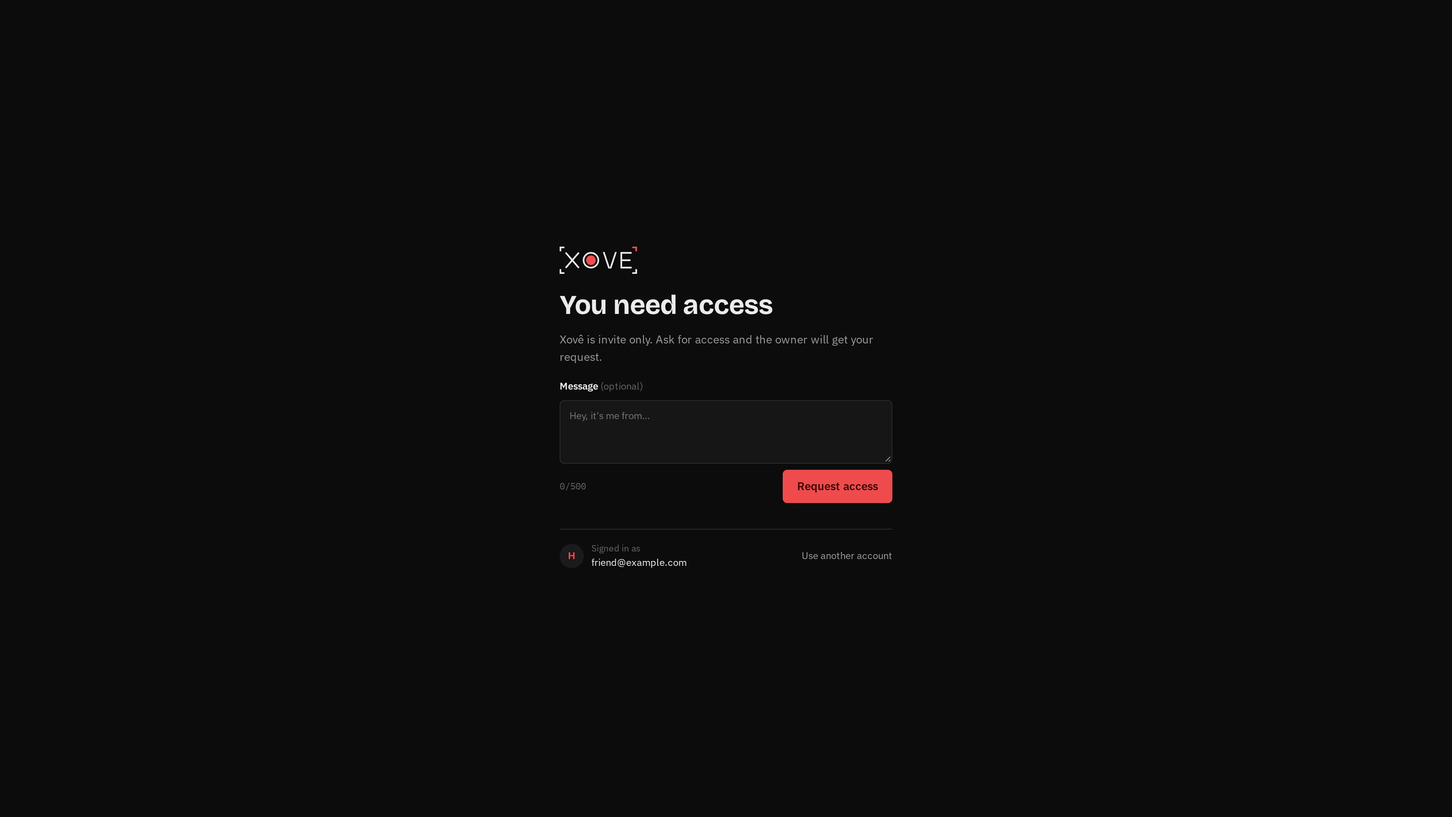
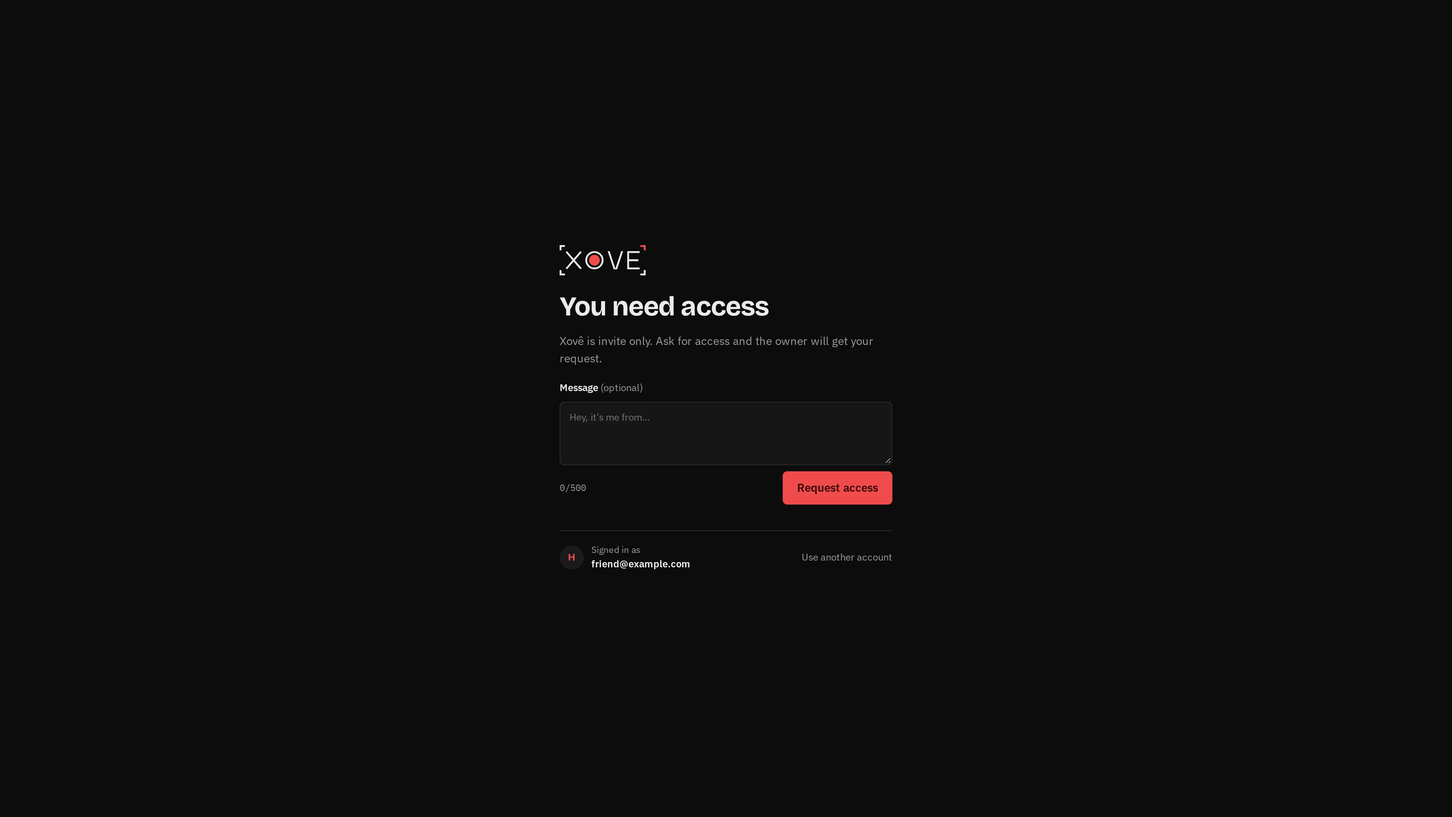
docs(web): the pages outside the room, their rules and pictures (0194-pages-outside-the-room)

diff --git a/docs/architecture.md b/docs/architecture.md
@@ -19,7 +19,9 @@ Everything is in `app/src`:
 
 | Folder | Owns |
 | --- | --- |
-| `pages/` | One component per route: `HomePage`, `RequestAccessPage`, `AdminPage`, until they move in (#194); the room's page is in the room feature (`room/room-page/`) |
+| `features/home/` | The sign-in page (`components/home-page/`: the pitch, a sign-in's error in words from `utils/sign-in-error.util.ts`, Continue with Google as a link on `Button`'s white look), Google's mark (`components/home-google-mark/`, its paths and colours in its `constants/`) |
+| `features/request-access/` | Asking to join (`components/request-access-page/`: the mark, the form or the wait, who's signed in on `PersonRow`; the 20 s check for an approval, `use-approval-check`), the form (`request-access-form/`, its sending in `use-access-request`, a refusal in `ErrorNotice`) and the wait (`request-access-waiting/`, "Waiting for approval" a soft `LabelPill` in an `<output>`) |
+| `features/admin/` | Admin, its own data: the store (`stores/admin-store/`: both lists, one action at a time, its error kept, both reloaded after each; read through `use-admin`, a store per visit), the page on the Page shell's wide frame with its bar above the main region, the bar (`admin-header/`), the requests (`admin-requests/`, each `admin-request-card/`), the members (`admin-members/`, each `admin-member-row/`, Remove asked first in `admin-remove-confirm/`) |
 | `features/room/stores/room-store/` | The room's store, a unit: the room as data (`room.model.ts`: people by their id, streams, who watches whom, arrivals, the seat, the activity, my streams' steps, changed by pure functions), what the room shows (`room.selectors.ts`), and `RoomStore` (`room.store.ts`): the one place the seat, the streams and entering again are polled, the video room joined, and the room's actions sent; its hooks `use-room-store` (the store, the room, the video) and `use-room-seat` (the seat and its actions), and the helpers only it uses in `utils/` (the streams, the API's answer, the activity's events, a sharer's feed, keeping the same record, waiting for a seat) |
 | `features/room/stores/room-session/` | The room once I'm in, shared with its areas through a context (`RoomSessionProvider`, read with `useRoomSession`): one hook gathers the room from the store (`use-session-core`: what the room shows, `use-room-view`; what I send, `use-my-sending` with my streams, their settings through a queue, the camera's preview and switch, changing the window; keeping my streams and the API in step, `use-stream-sync`; my voice, `use-my-voice`; the activity, `use-activity-feed`; the camera remembered), and one shapes each area's part: the stage's (`use-session-stage`: who's on it, the watch report, who watches, my buttons' controls), the header's (`use-session-header`: the activity, the people, my account), the settings panel's (`use-session-settings`, its open state from `use-settings-open`); the ambilight's settings, remembered (`use-ambilight`). The areas read their part; the pieces inside them keep their props |
 | `features/room/hooks/` | The room's hooks several pieces share: who's big (`use-stage`), what I hear and what's downloaded (`use-hearing`); whether the keyboard was used last (`use-keyboard-last`); the time now, ticking (`use-now`); a track played in a video or audio element at this browser's volume (`use-played-track`), the TV turning on (`use-turn-on`), the settings' anchor the controls hand the stage (`use-settings-anchor`), Go live's width (`use-go-live-width`); a sound's slider opened by a rest of the mouse and closed on leaving (`use-hold-or-rest`), the previews' rows on their layer (`use-preview-tray`), what's fullscreen (`use-fullscreen-element`) |
@@ -30,9 +32,9 @@ Everything is in `app/src`:
 | `features/room/components/` | The room's pieces, in area folders (`room/`, `header/`, `queue/`, `stage/`, `stage-controls/`, `stage-info/`), the area in each name, each with its test and stories: the page (`room/room-page/`: my seat or the room laid out, the devices listed from the waiting room on, the sound unlocked by the first click or key, when the room can show), the room's error line (`room/room-error/`: under the stage, or over the player in fullscreen), the queue (`queue/queue-waiting-room/`, and the seat offer `queue/queue-seat-offer/` on the browser's own modal dialog), the footer (`room/room-footer/`), the header (`header/header/`, placing its own pieces from the session), the activity pill (`header/header-activity-pill/`, its moving line `header/header-activity-ticker/`) and list (`header/header-activity-list/`), who's here (`header/header-people-button/`, the seats `header/header-seats/`), my picture and my menu (`header/header-my-picture-button/`, `header/header-my-menu/`) |
 | `shared/stores/floating-store/` | What floats, one thing on screen at a time: `useFloating` tells the store a piece is open and its kind (opened by a click or the keyboard, opened on a mouse rest, a tooltip). The store's rules decide what closes, what's inside another stays, and its one listener takes a press outside and Escape, which returns focus to the button. Each piece holds its own open state; the settings panel stays pinned and doesn't join |
 | `shared/components/` (floating blocks) | On that store: `dropdown/` (one piece of glass, its sections on it), `picker/` with `picker-list/` (a list that floats over its panel, masking what's behind it in the nearest `[data-list-host]`; a menu of `menuitemradio` options), `drop-up/` and `drop-up-row/` (a labelled `fieldset`; its gestures can redirect to an open panel), `tooltip/` (the app's only tooltip, on its own layer, describing its control for screen readers; it follows its control on every frame while shown, sits `beside` a list's option, and with `cutOnly` shows only for a cut name). A redirected drop-up (the settings open) follows every rest, closing what's opened first (`floatingStore.closeOpened`). `picker/` and `drop-up/` can be told to be open (`open`, `onOpenChange`); `cue/` is how a control is pointed at |
-| `shared/components/` (the design system) | One block per purpose (ADR-0094), each with its test and stories: `button/`, `slider/`, `segmented/` (real radios), `toast/` (its state in `shared/stores/toast-store/`, shown with `toastStore.show`), `wordmark/` (the mark, full or icon; its geometry, timeline and favicon in its `utils/`, read by `scripts/brand-icons.mjs` too), `panel/` and `panel-section/` (the one glass, its sections parted by a hairline), `page-shell/` (home, form, waiting, message), `field/`, `stat-pill/` and `count-chip/` (counters by space), `control-label/` and `section-heading/` (labels by space), `menu-row/` (a menu's action: a link or a button; its menu sets its role), `icon-button/` (the round button in two sizes, L 48 for my own buttons and M 34 for every other, and the header's and close's purposes), `action-pill/` (a button with words: XS 26, S 30, M 34 or L 44, glass, red, soft or dark, the dark one "on" while pressed), `live-dot/` (the live dot, S or M, with its glow), `label-pill/` (a label over a picture, 22 px, a face first or words alone), `tabs/` (the tabs: the sliding marker, the live dot, every pane as tall as the tallest; its keys, focus and a touch's reason in its hooks); `slider/` has a threshold variant (a line knob, a level in its track), `switch/` carries the settings row; the one slim scrollbar is `data-scroll="slim"` in `shared/styles/global.css` |
+| `shared/components/` (the design system) | One block per purpose (ADR-0094), each with its test and stories: `button/` (primary, danger, ghost, quiet and white; a link with its look when it has somewhere to go), `slider/`, `segmented/` (real radios), `toast/` (its state in `shared/stores/toast-store/`, shown with `toastStore.show`), `wordmark/` (the mark, full or icon; its geometry, timeline and favicon in its `utils/`, read by `scripts/brand-icons.mjs` too), `panel/` and `panel-section/` (the one glass, its sections parted by a hairline), `page-shell/` (home, form, waiting, message, and wide, a page from the top with its bar above the main region), `field/`, `stat-pill/` and `count-chip/` (counters by space), `control-label/` and `section-heading/` (labels by space), `menu-row/` (a menu's action: a link or a button; its menu sets its role), `icon-button/` (the round button in two sizes, L 48 for my own buttons and M 34 for every other, and the header's and close's purposes), `action-pill/` (a button with words: XS 26, S 30, M 34 or L 44, glass, red, soft or dark, the dark one "on" while pressed), `live-dot/` (the live dot, S or M, with its glow, beating when something waits), `label-pill/` (a label: glass over a picture, a soft red status, a solid red role; S 22 px or M on a page), `person-row/` (a person: a face, the name, a quiet line, an end), `page-text/` (a page's lead under its heading, a quiet note), `tabs/` (the tabs: the sliding marker, the live dot, every pane as tall as the tallest; its keys, focus and a touch's reason in its hooks); `slider/` has a threshold variant (a line knob, a level in its track), `switch/` carries the settings row; the one slim scrollbar is `data-scroll="slim"` in `shared/styles/global.css` |
 | `routes/` | Which page opens at which address, and who may open it: the root (`root/`), the route table (`app-routes/`), the guard (`route-guard/`, its rule in its `utils/route-access.util.ts`) |
-| `services/xove-api-service/` | The HTTP client (`xove-api.service.ts`): one function per endpoint, the call itself and its errors as `ApiError`; the CSRF token and the headers in `utils/`, the API's types in `types/`, its messages in `constants/` |
+| `services/xove-api-service/` | The HTTP client (`xove-api.service.ts`): one function per endpoint, the call itself and its errors as `ApiError`; the CSRF token, the headers and a failed call's words (`apiErrorMessage`: the API's, or the place's own) in `utils/`, the API's types in `types/`, its messages in `constants/` |
 | `shared/stores/auth-store/` | Who is signed in (`AuthProvider` in `auth.store.tsx`, which asks `GET /api/me` once and on demand; `useAuth` in its `hooks/`) |
 | `services/app-config-service/` | The settings the server gives the app before it shows (`/config.json`, read once in `main.tsx`): today the stream places (1 to 6); a missing or broken file gives nothing, and the room falls back on the API's answer |
 | `services/settings-queue-service/` | My stream's settings on their way to the API: changes one after another, a refused one put back |
@@ -40,31 +42,35 @@ Everything is in `app/src`:
 | `services/livekit-service/` | The video server, the only place that uses `livekit-client`: the adapter (`livekit.adapter.ts`: connects with the access it's given, keeps the room's state per person, takes commands), what's captured, sent, changed and heard (`capture`, `send`, `screen-change`, `screen-sound`, `voice` services), what someone sends read into plain data (`remote-media.adapter.ts`), who's speaking measured from what I hear (`speaking.service.ts` over `voice-activity.adapter.ts`, [Media](media.md#the-voice)), the noise gate's processor (which also says when my voice is sent); its helpers in `utils/` (how streams are sent, the room's state per person, the mic's problems), its types and constants beside them |
 | `services/media-devices-service/` | The browser's devices: the screen picker, the cameras and mics and the mic's meter as services (they ask the browser); a phone or a tablet (`utils/is-handheld.util.ts`), the picker's request and the noise gate's maths as helpers; the stream presets in `constants/` |
 | `features/phone-notice/` | What phones and tablets see instead of the app ([below](#phones-and-tablets)): its page and art in `components/` |
-| `shared/` | What the whole app uses: the auth store, the time constants, the building blocks in `components/` (`icon`, `icon-button`, `face`, `switch`, `live-badge`, `headline`, `error-notice`), the icons' drawings, my mic's state and how long ago (`constants/`, `types/`, `utils/`), the design tokens (`styles/tokens.css`, every value the CSS uses) and the page's base rules (`styles/global.css`) |
+| `shared/` | What the whole app uses: the auth store, the time constants, the building blocks in `components/` (`icon`, `icon-button`, `face`, `switch`, `live-badge`, `headline`, `error-notice`), the icons' drawings, my mic's state, how long ago, a first name, the mark's two heights and where the page draws the app (`constants/`, `types/`, `utils/`), the design tokens (`styles/tokens.css`, every value the CSS uses) and the page's base rules (`styles/global.css`) |
 | `testing/` | The test helpers: a fake API, a fake LiveKit, and rendering the app at a URL ([Testing](testing.md)); only tests import it |
 
-At the top, `main.tsx` starts the app, `routes/root/root.component.tsx` chooses between the app and the phone notice, and `routes/app-routes/app-routes.component.tsx` holds the routes.
+At the top, `main.tsx` starts the app in the page's `#root` (found by `shared/utils/root-element.util.ts`, a clear error without one), `routes/root/root.component.tsx` chooses between the app and the phone notice, and `routes/app-routes/app-routes.component.tsx` holds the routes.
 
 ```mermaid
 flowchart TD
-  P[pages] --> C[components]
-  P --> H[hooks]
-  P --> A[services/xove-api-service]
-  C --> H
-  H --> A
-  H --> LK[services/livekit-service]
-  H --> M[media]
-  C --> M
-  H --> PR[services/preferences-service]
-  C --> PR
-  P --> AU[shared/stores/auth-store]
-  AU --> A
-  R[routes/root/root.component.tsx] --> D[services/media-devices-service]
+  M[main.tsx] --> R[routes/root]
   R --> N[features/phone-notice]
-  R --> APP[routes/app-routes/app-routes.component.tsx]
+  R --> APP[routes/app-routes]
   APP --> G[routes/route-guard]
-  G --> AU
-  APP --> P
+  APP --> HO[features/home]
+  APP --> RA[features/request-access]
+  APP --> AD[features/admin]
+  APP --> RO[features/room]
+  HO --> SH[shared]
+  RA --> SH
+  AD --> SH
+  RO --> SH
+  N --> SH
+  G --> AU[shared/stores/auth-store]
+  RA --> A[services/xove-api-service]
+  AD --> A
+  RO --> A
+  RO --> LK[services/livekit-service]
+  RO --> D[services/media-devices-service]
+  RO --> PR[services/preferences-service]
+  AU --> A
+  R --> D
 ```
 
 Pages put the room together; components draw it; hooks own the state and talk to the API and LiveKit (the simpler pages call the API directly); the room's rules (hearing, the stage pick, the watch report) are plain functions in `features/room/utils/`, and the settings queue is a service (`services/settings-queue-service/`). Each component has its own CSS module, using the tokens in `shared/styles/tokens.css`.
@@ -175,7 +181,7 @@ The room has one layout, theater mode, that follows the window's size ([how it l
 
 ## Where the code is going
 
-The modules above are the app as it is today. It's being reorganised, with no change of behaviour, into the structure below. The new folders are in place (`routes/`, `features/`, `shared/`, `services/`, `testing/`); the old ones (`pages/`, `components/`, `hooks/`, `media/`, `brand/`) move in step by step, and this page's tables follow. Every component, today's and the next version's, with its pictures and its future folder: [Components](components/README.md).
+The modules above are the app as it is today. It's being reorganised, with no change of behaviour, into the structure below. The new folders are in place (`routes/`, `features/`, `shared/`, `services/`, `testing/`), and every old one has moved in; what's left is the sweep of the last known findings. Every component, today's and the next version's, with its pictures and its future folder: [Components](components/README.md).
 
 ### The structure
 
@@ -196,7 +202,7 @@ app/src/
 - **A unit is a folder:** a component, a store, a service or an adapter, with its code, its test beside it (`facecam.component.test.tsx`), its CSS module if it's a component, a component's stories (`facecam.component.stories.tsx`: its states in Storybook, [Testing](testing.md#storybook)), and `index.ts`: the only door other code goes through.
 - **Its parts sit inside it,** as files in folders by kind: `hooks/`, `utils/` (helpers that format, build or map, each with its test beside it), `constants/`, `types/`, `enums/`, only when it has some. A part used by several units of a feature sits in the feature's own part folders; one used by several features in `shared/`'s; a service's parts in the service. A working file holds no type (its props and inputs too), named constant or helper; a function that makes calls (the network, storage, LiveKit) belongs to a service.
 - **Nothing nested:** no unit inside a unit, no folder inside a part folder. A feature's `components/` holds component folders, or area folders (one level) holding only component folders, never both; each name keeps its area (`stage/stage-facecam/`), and areas of one feature may use each other's components. A path is at most 7 levels under `src/`. A feature is split by its data, not its size: about 25 components in one area is a signal to look again.
-- **Names:** kebab-case with the type as a suffix: `.component.tsx`, `.page.tsx`, `.hook.ts`, `.util.ts`, `.service.ts`, `.adapter.ts`, `.store.ts`, `.model.ts`, `.selectors.ts`, `.constants.ts`, `.enum.ts`, `.types.ts`; tests `.test.ts(x)`.
+- **Names:** kebab-case with the type as a suffix: `.component.tsx`, `.page.tsx`, `.hook.ts`, `.util.ts`, `.service.ts`, `.adapter.ts`, `.store.ts`, `.model.ts`, `.selectors.ts`, `.constants.ts`, `.enum.ts`, `.types.ts`; tests `.test.ts(x)`. The entry, `main.tsx`, and its test, `main.test.tsx`, keep their own names.
 - **Short names:** `@routes/…`, `@features/…`, `@shared/…`, `@services/…` and `@testing/…` (in `tsconfig.app.json`'s `paths` and Vite's `resolve.alias`), never long relative paths into another folder.
 - **Imports go down:** `routes` → `features` → `shared` → `services`. No feature uses another; only tests use `testing/`. The lint rule enforces the direction, and the code check the rest (below), and no file imports another component's CSS.
 

diff --git a/docs/design.md b/docs/design.md
@@ -44,7 +44,8 @@ The pictures are shot from the real app (`design-sheet.mjs`, see [Keeping this p
 - **The symbol:** the record O alone, inside the same four corners. It's the app icon and the favicon.
 - **Construction** (`app/src/shared/components/wordmark/utils/mark.util.ts`, the only place the geometry lives, every number named in its `constants/`): one grid with a cap height of 100 and a stroke of 10. Letter widths X 88, O 100, V 90, E 68, gaps 20. The viewfinder sits 28 from the letters, with arms of 24 (26 in the symbol). The dot's radius is 29.4 in an O 100 across. The X ends square, the V's tips are cut flat at the cap height.
 - **Colours:** white strokes (`--text`, `#ebebec`), the red dot and corner (`--accent`, `#ef4b4b`), on the soft black ground. Never recoloured, outlined, stretched or put on a busy picture.
-- **Drawn, not typed:** the `Wordmark` block (inline SVG, named "Xovê" for screen readers), `variant="full"` for the wordmark and `"icon"` for the symbol. It's a picture, not a keyboard stop. In the header it's about 110 px wide.
+- **Drawn, not typed:** the `Wordmark` block (inline SVG, named "Xovê" for screen readers), `variant="full"` for the wordmark and `"icon"` for the symbol. It's a picture, not a keyboard stop.
+- **Two sizes** (`shared/constants/mark.constants.ts`): **40 px** above a page's heading (sign-in, request access) and **32 px** in a header bar (the room's, admin's; about 110 px wide). The phone notice's symbol is 36 px, part of its drawing.
 - **The hover animation** (the Wordmark's `mark-timeline.util.ts` and `useMarkAnimation`): pointing at the wordmark plays it once, in about 3 seconds. The left corners stay and the word slides under them until the X is gone, while the right corners close in on the O; the corners settle into the symbol; the dot double-blinks like a surprised eye; everything plays back. A new hover doesn't restart it, and it never plays with reduced motion.
 - **Three optical sizes of the symbol** (`iconMark("large" | "small" | "tiny")`): **large** (64 px and up) is slim, about 70% of its square; **small** (32 px) and **tiny** (16 px) have heavier strokes and fill more of the square, tiny edge to edge. The outer edges match in all three.
 
@@ -308,6 +309,7 @@ The colours above, the type scale and the fonts are tokens too. The rest:
 - **An action pill** (`ActionPill`) is a button with words, round at both ends: **M 34** over a stream (Go live) or **L 44** where it's the screen's main choice (the empty stage's Screen and Camera). Three fills: **glass** (the round buttons' base), **red** (the first way, `--accent`) and **soft** (a second way, a light translucent fill). An icon or the [live dot](#avatars-and-live) comes first. Unavailable: 45%, saying why, like a round button.
 - **A small button with words is the dark pill** (a rule for the whole app): `ActionPill`'s **dark** fill, the chosen segment's pill (`--sel-bg`, its shadow, lighter when pointed at), white semibold words, one size per place: **S 30** in the drop-up's glass row (Change over the video) and **XS 26** in a panel (Change in the settings' window row, Test beside the mic's level). **On** (pressed, Test while it plays) it's white with dark words. Never a round button with words. (Change: [the settings' Screen tab](#the-settings-panel); Test: [the Voice tab](#the-settings-panel).)
 - **A label pill** (`LabelPill`) names what a picture shows or says something about it (a preview's "Rafa · screen", the camera preview's "Only you see this"): **22 px** glass, 500 weight, a face or an icon first when it names someone, words alone otherwise. It isn't a button: the picture under it is. **Any label over a picture is one.**
+- **A status or a role is a label pill too**, in red: **soft** (the accent's tint, red semibold words) for a status on a page, at the page's size (**M**): "Waiting for approval", its [live dot](#avatars-and-live) beating first; **solid** (the accent, deep-red words) for a role in a row (**S**): "Admin". Never a pill of its own.
 - The counters' Stat pill stays its own block ([Counters by space](#counters-by-space)): it counts, it doesn't act or name.
 
 ### What I hear, and Go live
@@ -397,8 +399,10 @@ The settings for what you send, from the cog on my own stream or, with nobody li
 | Primary | Red fill, deep-red text; lighter red (`#f36a6a`) on hover | The one main action on a page ("Get Xovê", "Request access") |
 | Ghost | Transparent, muted text, a `--line` border; raised surface on hover | Secondary actions |
 | Danger | Transparent, red text and a red border at 55% | Removing a member, stopping |
+| Quiet | Muted words alone, 13 px, no box and no press; white and underlined when pointed at | A quiet way out or back ("Use another account", "Back to the room") |
+| White | White fill, dark words, a soft red ring (the accent at 14%, 3 px) when pointed at | Google's sign-in only, its "G" in Google's own colours: the one place outside the tokens |
 
-Two sizes: **md** (10 × 18 px padding, 15 px text) and **sm** (6 × 12 px, 13 px). Weight 600, `--radius-1-5`, 45% opacity when disabled.
+Two sizes: **md** (10 × 18 px padding, 15 px text) and **sm** (6 × 12 px, 13 px). Weight 600, `--radius-1-5`, 45% opacity when disabled. **A button that goes somewhere is a link with its look** (`to` in the app, `href` out of it): screen readers hear a link, the eye sees the button.
 
 ### Sliders
 
@@ -492,7 +496,8 @@ A number that changes takes the look of **its space**, and each space's look is 
 
 ![My face lit while my voice is sent, beside my face live and silent](images/design/my-face-talking.png)
 - **LIVE badge** (the `LiveBadge` block): "LIVE" in mono with a deep-red dot on red. Beside who's on the stage it's a small tag whose dot pulses; over my preview in the settings, a pill with a still dot.
-- **The live dot** (the `LiveDot` block): one red dot with a soft red glow (`--accent-70`, 8 px), still, in two sizes: **M 8 px** first on a pill (Go live) and **S 6 px** on a tab (the settings' tab of what you're sending). Screen readers don't hear it: the words around it say it.
+- **The live dot** (the `LiveDot` block): one red dot with a soft red glow (`--accent-70`, 8 px), in two sizes: **M 8 px** first on a pill (Go live) and **S 6 px** on a tab (the settings' tab of what you're sending). Still for something live; **beating** for something you wait for ("Waiting for approval"): down to 30% and back every 1.6 s, as LIVE's dot, still with reduced motion. Screen readers don't hear it: the words around it say it.
+- **A person in a row** (the `PersonRow` block): their face at the place's size, the name (13 px semibold) and a quiet line under it (12 px, muted: an email, a role, what they're doing), then what ends the row (a time, a button, a badge, icons). My menu, the people list, request access's "Signed in as" (a quiet word above the name) and admin's requests and members. **Every list of people uses it.**
 
 ### On the stage
 
@@ -563,8 +568,14 @@ Xovê is for computers: laptops and desktops get the app, in one layout (theater
 
 ![The sign-in page on a desktop](images/design/sign-in.png)
 
-Sign-in, request access (and request sent), the room's queue and admin: centred on the page's ground, the wordmark above the heading. Each is in the **Page shell** (`home`, `form`, `waiting`, `message`); the queue's card is the [Panel](#the-panel).
-- **Sign-in:** "Go **LIVE** with your friends." and its line (see [Name and voice](#name-and-voice)), then "Continue with Google" and who can join.
+Sign-in, request access (and request sent), the room's queue and admin, each in the **Page shell** (`home`, `form`, `waiting`, `message`, `wide`); the queue's card is the [Panel](#the-panel). A centred page has the mark (40 px) above its heading, the heading a `Headline`, the line under it a `PageText` lead (muted, the body's size); an error is the `ErrorNotice` box; a quiet note is small and muted.
+- **Sign-in:** "Go **LIVE** with your friends." and its line (see [Name and voice](#name-and-voice)), then "Continue with Google" (the white button, a link) and who can join.
+![Request access](images/design/request-access.png) ![Request sent, waiting for approval](images/design/request-sent.png)
+
+- **Request access:** "You need access" (or "Your request was declined"), its line, the note and Request access; once sent, "Request sent" with "Waiting for approval" in the soft label pill, its dot beating. At the foot, under a hairline, who's signed in (a person row) and "Use another account" (the quiet button).
+![Admin, with someone waiting and an admin among the members](images/design/admin.png)
+
+- **Admin:** the wide frame, from the top: a bar (the mark at 32 px, "admin" in mono, "Back to the room" the quiet link) above the page's main region; who's waiting (each a card: a person row with the time, their note quoted with a red line, Approve and Decline) beside the members (person rows; Remove asks first; an admin says "Admin" in the solid label pill). One column on a narrow window.
 
 ### Phones and tablets: see you on the big screen
 
@@ -573,7 +584,7 @@ Sign-in, request access (and request sent), the room's queue and admin: centred 
 What a phone or a tablet sees, on every page: nothing else of the app, and no call to the server. Centred on the page's ground, top to bottom:
 - **The mark** (36 px).
 - **A computer drawn from the mark:** its four viewfinder corners (the top right one red) round a screen, the red dot on it, a stand under it.
-- **The headline** "See you on the **big screen**." ("big screen" in the accent, as "LIVE" on sign-in).
+- **The headline** "See you on the **BIG SCREEN**." (the shared `Headline`: "big screen" in the accent and in capitals, as "LIVE" on sign-in).
 - **One line, apologising once at its start:** "Sorry, Xovê doesn't work on phones or tablets yet. Open `xove.app` on your laptop or desktop to watch and share with your friends." The address in the mono face.
 - **No button:** a copied link doesn't move anyone to their laptop, and the address is short enough to type.
 
@@ -608,7 +619,7 @@ Its content stays clear of the phone's bars (the browser's safe areas).
 - **A video in a frame is one frame** (`StageVideoFrame`): 16:9, black, **8 px corners**, the picture letterboxed inside under a hairline: Also live's cards and the camera's preview.
 - **Draft first:** a visual change starts as a draft approved before the work starts: a change to screens that exist, as a prototype in the app itself; a brand-new screen may start as a clickable HTML draft with these tokens and fonts. The approved draft is the reference the code must match.
 - **Check every size:** a 2K monitor both ways (2560 × 1440 and 1440 × 2560), 1920 × 1080, a narrow window, the empty room, and the phone and tablet screen.
-- **Reuse the components:** the shared blocks in `shared/components/`, each shown in Storybook: `Icon`, `IconButton` (the round button, L and M, and its other purposes), `ActionPill` (and its `LiveDot`), `LabelPill`, `Tabs`, `DropUpRow`, `Face`, `Switch`, `LiveBadge`, `Headline`, `ErrorNotice`, `Button`, `Slider`, `Segmented`, `Toast`, `Wordmark`, `Panel` and `PanelSection`, `PageShell`, `Field`, `StatPill`, `CountChip`, `ControlLabel`, `SectionHeading`, `MenuRow`, `Dropdown`, `Picker`, `DropUp`, `Tooltip`; and `StageNotice`. **One block per purpose** (ADR-0094): what does the same job is one block, even where today's values differ; what does a different job is its own block, however alike it looks, so changing one never changes another. A new control follows their sizes, motion and focus ring. A choice from a list is a `Picker` (one box, floating, with the slim scrollbar when long), a few options a `Segmented`, and a quick action over a live button a `DropUp`, everywhere in the app.
+- **Reuse the components:** the shared blocks in `shared/components/`, each shown in Storybook: `Icon`, `IconButton` (the round button, L and M, and its other purposes), `ActionPill` (and its `LiveDot`), `LabelPill`, `PersonRow`, `PageText`, `Tabs`, `DropUpRow`, `Face`, `Switch`, `LiveBadge`, `Headline`, `ErrorNotice`, `Button`, `Slider`, `Segmented`, `Toast`, `Wordmark`, `Panel` and `PanelSection`, `PageShell`, `Field`, `StatPill`, `CountChip`, `ControlLabel`, `SectionHeading`, `MenuRow`, `Dropdown`, `Picker`, `DropUp`, `Tooltip`; and `StageNotice`. **One block per purpose** (ADR-0094): what does the same job is one block, even where today's values differ; what does a different job is its own block, however alike it looks, so changing one never changes another. A new control follows their sizes, motion and focus ring. A choice from a list is a `Picker` (one box, floating, with the slim scrollbar when long), a few options a `Segmented`, and a quick action over a live button a `DropUp`, everywhere in the app.
 - **Panels open over the button that opened them,** never from a side. **Panels are frosted, never opaque**; nothing over the video hides the round buttons.
 - **Say what effects cost:** blur, canvases and animations run on every frame; keep them to what's here.
 - **A screen says only what matters.** No readouts that imitate real equipment (clocks, meters, rulers, format tags, made-up numbers), and no frame inside another frame.
@@ -626,7 +637,13 @@ Its content stays clear of the phone's bars (the browser's safe areas).
 - **A picture is drawn from the mark:** an illustration uses the mark's own parts (its viewfinder corners, the top right one red, and the red dot), not a new style.
 - **Point to the next step in words when a button wouldn't help:** a short address to type beats a copy button that moves nobody.
 - **An apology is said once, at the start:** "Sorry, …", then what to do.
-- **A headline's key words in the accent:** one short phrase in red, as "LIVE" on sign-in and "big screen" on the phone screen; never a whole line.
+- **A headline's key words in the accent and in capitals:** one short phrase in red, written in lowercase and shown in capitals so a screen reader says the word, as "LIVE" on sign-in and "BIG SCREEN" on the phone screen; never a whole line. A page's heading is always the `Headline` block.
+- **An error on a page is the error box** (`ErrorNotice`), never a bare red line.
+- **A person is one row** (`PersonRow`), wherever people are listed.
+- **A quiet way out or back is the quiet button** (`Button` quiet: muted, underlined only when pointed at), a link when it goes to a page.
+- **A status or a role is a label pill** in red (soft for a status, solid for a role), never a pill of its own; a dot that beats beats as LIVE's.
+- **Every page outside the room is on the Page shell;** a page of lists is its wide frame, its bar above the main region.
+- **One exception to the tokens:** Google's sign-in button, white with Google's "G" in Google's own colours, as their rules ask.
 - **A first impression plays once:** an intro (the TV turning on) plays the first time in a visit, never again for the same state, and never for reduced motion.
 
 ## Keeping this page current

diff --git a/docs/components/today.md b/docs/components/today.md
@@ -66,7 +66,7 @@ How many people are here; it opens the seats and the list of people with what ea
 
 | Today | Goes to | What happens |
 | --- | --- | --- |
-| `features/room/components/header/header-people-button/` (the order, the line under each name and the queue in its `utils/`), the seats `header-seats/` | Here | Done (#189); the next version's people column replaces it |
+| `features/room/components/header/header-people-button/` (the order, the line under each name and the queue in its `utils/`; each person on `PersonRow`, their streams' icons `header-stream-icons/`, #194), the seats `header-seats/` | Here | Done (#189); the next version's people column replaces it |
 
 ### My picture button and my menu
 
@@ -79,7 +79,7 @@ My picture; it opens my menu.
 
 | Today | Goes to | What happens |
 | --- | --- | --- |
-| `features/room/components/header/header-my-picture-button/` and `header-my-menu/` (on the shared Dropdown, Switch, Slider and Menu row); the ambilight's settings in `features/room/stores/room-session/hooks/use-ambilight.hook.ts` | Here | Done (#189) |
+| `features/room/components/header/header-my-picture-button/` and `header-my-menu/` (on the shared Dropdown, Switch, Slider, Menu row and Person row); the ambilight's settings in `features/room/stores/room-session/hooks/use-ambilight.hook.ts` | Here | Done (#189) |
 
 ## The stage
 
@@ -304,7 +304,7 @@ The first page: what Xovê is, and signing in with Google.
 
 | Today | Goes to | What happens |
 | --- | --- | --- |
-| `pages/HomePage.tsx` | `features/home/` (on the shared Page shell) | Kept |
+| `features/home/components/home-page/` (on the shared Page shell, `Headline`, `PageText`, `ErrorNotice`; Continue with Google a link on `Button`'s white look), Google's mark `home-google-mark/` (#194) | — | Kept |
 
 ### Request access
 
@@ -317,7 +317,7 @@ Asking to join, and the wait for an answer.
 
 | Today | Goes to | What happens |
 | --- | --- | --- |
-| `pages/RequestAccessPage.tsx` | `features/request-access/` | Kept |
+| `features/request-access/components/request-access-page/` (the mark, who's signed in on `PersonRow`), the form `request-access-form/` (its error in `ErrorNotice`), the wait `request-access-waiting/` (a soft `LabelPill` with a beating `LiveDot`) (#194) | — | Kept |
 
 ### Admin
 
@@ -329,7 +329,7 @@ For the admin: the access requests and the members.
 
 | Today | Goes to | What happens |
 | --- | --- | --- |
-| `pages/AdminPage.tsx` ("3 min ago" from `shared/utils/time-ago.util.ts`) | `features/admin/` | Kept |
+| `features/admin/`: its store `stores/admin-store/`, the page on the Page shell's wide frame, `admin-header/`, `admin-requests/` and each `admin-request-card/`, `admin-members/` and each `admin-member-row/` ("Admin" a solid `LabelPill`), Remove asked first `admin-remove-confirm/`; "3 min ago" from `shared/utils/time-ago.util.ts` (#194) | — | Kept |
 
 ## Building blocks
 
@@ -337,7 +337,7 @@ The shared controls today, and the copies that become one component each.
 
 | Block | Today | Goes to | What happens |
 | --- | --- | --- | --- |
-| Button | `shared/components/button/` | Here | Done (#188) |
+| Button | `shared/components/button/`: primary, danger, ghost, quiet (muted words, underlined when pointed at: "Use another account", "Back to the room") and white (Continue with Google); a link with its look when it goes somewhere | Here | Done (#188, quiet, white and links #194) |
 | Slider | `shared/components/slider/`, and its threshold variant (a line knob, a level in its track; the mic test drew its own) | Here | Done (#188, threshold #193) |
 | Segmented control | `shared/components/segmented/` (real radios) | Here | Done (#188) |
 | Floating layer | `shared/stores/floating-store/` | Here | Done (#187) |
@@ -348,20 +348,22 @@ The shared controls today, and the copies that become one component each.
 | Avatar | `shared/components/face/` (was `ui/Avatar.tsx`, `PersonAvatar.tsx`): the room's colour and initial with its rings, the account's photo | Already there | Merged |
 | Round button | `shared/components/icon-button/`, `variant="round"`: one base (glass, a soft shadow, lighter when pointed at, a red keyboard ring, 45% when unavailable, red when on) in two sizes, L 48 for my own buttons and M 34 for every other; its other purposes the header's and close | Here | Done (#191): the player's, the stage's, the overlay's, the mini and the toggle variants are one |
 | Action pill | `shared/components/action-pill/`: a button with words, XS 26, S 30, M 34 or L 44, glass, red, soft or dark (white while on), an icon or the live dot first; Go live, the empty stage's ways to start, and Change and Test (they were a round button with words and the mic test's own pill) | Here | Done (#191, dark #193) |
-| Live dot | `shared/components/live-dot/`: the red dot with its glow, S on a tab, M on a pill | Here | Done (#193) |
+| Live dot | `shared/components/live-dot/`: the red dot with its glow, S on a tab, M on a pill; beating on a wait ("Waiting for approval") | Here | Done (#193, its beat #194) |
 | Tabs | `shared/components/tabs/`: the sliding marker, the live dot, every pane as tall as the tallest, greyed in place when unusable; the settings' tabs | Here | Done (#193) |
 | Video frame | `features/room/components/stage/stage-video-frame/`: 16:9, black, 8 px corners; Also live's cards and the camera's preview | Here | Done (#193) |
-| Label pill | `shared/components/label-pill/`: a label over a picture, 22 px glass, a face or an icon first, or words alone; the previews' names, the camera preview's "Only you see this" | Here | Done (#191, #193) |
+| Label pill | `shared/components/label-pill/`: a label, a face, an icon or a dot first, or words alone; glass over a picture (the previews' names, "Only you see this"), soft red for a status ("Waiting for approval"), solid red for a role ("Admin"); S 22 px or M on a page | Here | Done (#191, #193, tones #194) |
 | Switch | `shared/components/switch/`: a setting's row, 30 px, its words and the switch; my menu and the Voice tab (the tab restyled it) | Already there | Merged; its row #193 |
 | Icons | `shared/components/icon/` and its drawings in `shared/constants/icons.constants.ts` (was `stage/icons.tsx`, `room/ActivityIcon.tsx` and inline drawings) | Already there | Merged |
 | LIVE badge | `shared/components/live-badge/`: beside who's on the stage, and over my preview | Already there | Merged |
-| Headline | `shared/components/headline/`: the big statement with its key words in the accent (sign-in, the empty stage) | Already there | Merged |
+| Headline | `shared/components/headline/`: the big statement with its key words in the accent and in capitals (sign-in, request access, the phone notice, the empty stage) | Already there | Merged; request access and the phone notice on it #194 |
 | Toast | `shared/components/toast/`, its state `shared/stores/toast-store/` | Here | Done (#188) |
-| Page shell | `shared/components/page-shell/`: home, request access, the waiting room, the loading line | Here | Done (#188) |
+| Page shell | `shared/components/page-shell/`: home, request access, the waiting room, the loading line, and admin's wide frame with its bar above the main region | Here | Done (#188, wide #194) |
+| Person row | `shared/components/person-row/`: a face, the name, a quiet line, something at the end; request access's account, admin's requests and members, my menu, the people list (each drew its own) | Here | Done (#194) |
+| Page text | `shared/components/page-text/`: a page's lead under its heading, and a quiet note (each page had its own rules) | Here | Done (#194) |
 | Panel | `shared/components/panel/`, `panel-section/`: the settings, the menus, the waiting room's card; one piece of glass, its sections parted by a hairline (#249) | Here | Done (#188) |
 | Field, Stat pill, Count chip, Control label, Section heading | `shared/components/field/`, `stat-pill/`, `count-chip/`, `control-label/`, `section-heading/` | Here | Done (#188) |
 | Menu row | `shared/components/menu-row/`: one action in a menu, its icon and words; my menu's Admin and Sign out, the Go live menu's three (they were two looks) | Here | Done (#189) |
-| Error notice | `shared/components/error-notice/`: the red-tinted box a problem is told in, on the home page and over the room (it was a copied `.error` rule in both pages) | Already there | Merged |
+| Error notice | `shared/components/error-notice/`: the red-tinted box a problem is told in, on every page and over the room (it was a copied `.error` rule in both pages; request access's was a red line until #194) | Already there | Merged |
 
 ## Removed
 

diff --git a/docs/testing.md b/docs/testing.md
@@ -92,7 +92,7 @@ Its own test (`scripts/check-styles.test.ts`) feeds it small stylesheets that pa
 
 ## End-to-end, every feature at every size
 
-Every feature of the app has numbered test cases, each written as given / when / then / must not, and **one Playwright test per case** in `e2e/`, titled by the case's id (`F-my-buttons.3 …`). They drive the whole app on its **harness** (`e2e/harness/`: the real app, the tests' fake API and LiveKit, fake people with drawn pictures; `npm run harness` serves it on http://localhost:5199, `&still=1` holds the pictures still, `&held=1` holds the room's sound back until the first click; `&page=waiting` and `&page=offered` show the queue and a seat offered), and run at every size of a selection, each with its pixel density:
+Every feature of the app has numbered test cases, each written as given / when / then / must not, and **one Playwright test per case** in `e2e/`, titled by the case's id (`F-my-buttons.3 …`). They drive the whole app on its **harness** (`e2e/harness/`: the real app, the tests' fake API and LiveKit, fake people with drawn pictures; `npm run harness` serves it on http://localhost:5199, `&still=1` holds the pictures still, `&held=1` holds the room's sound back until the first click; `&page=waiting` and `&page=offered` show the queue and a seat offered; `&page=request&fail=request` makes the API refuse a request; `&page=admin&withAdmin=1` adds an admin to the members), and run at every size of a selection, each with its pixel density:
 
 | Size                        | Viewport    | Density |
 | --------------------------- | ----------- | ------- |
